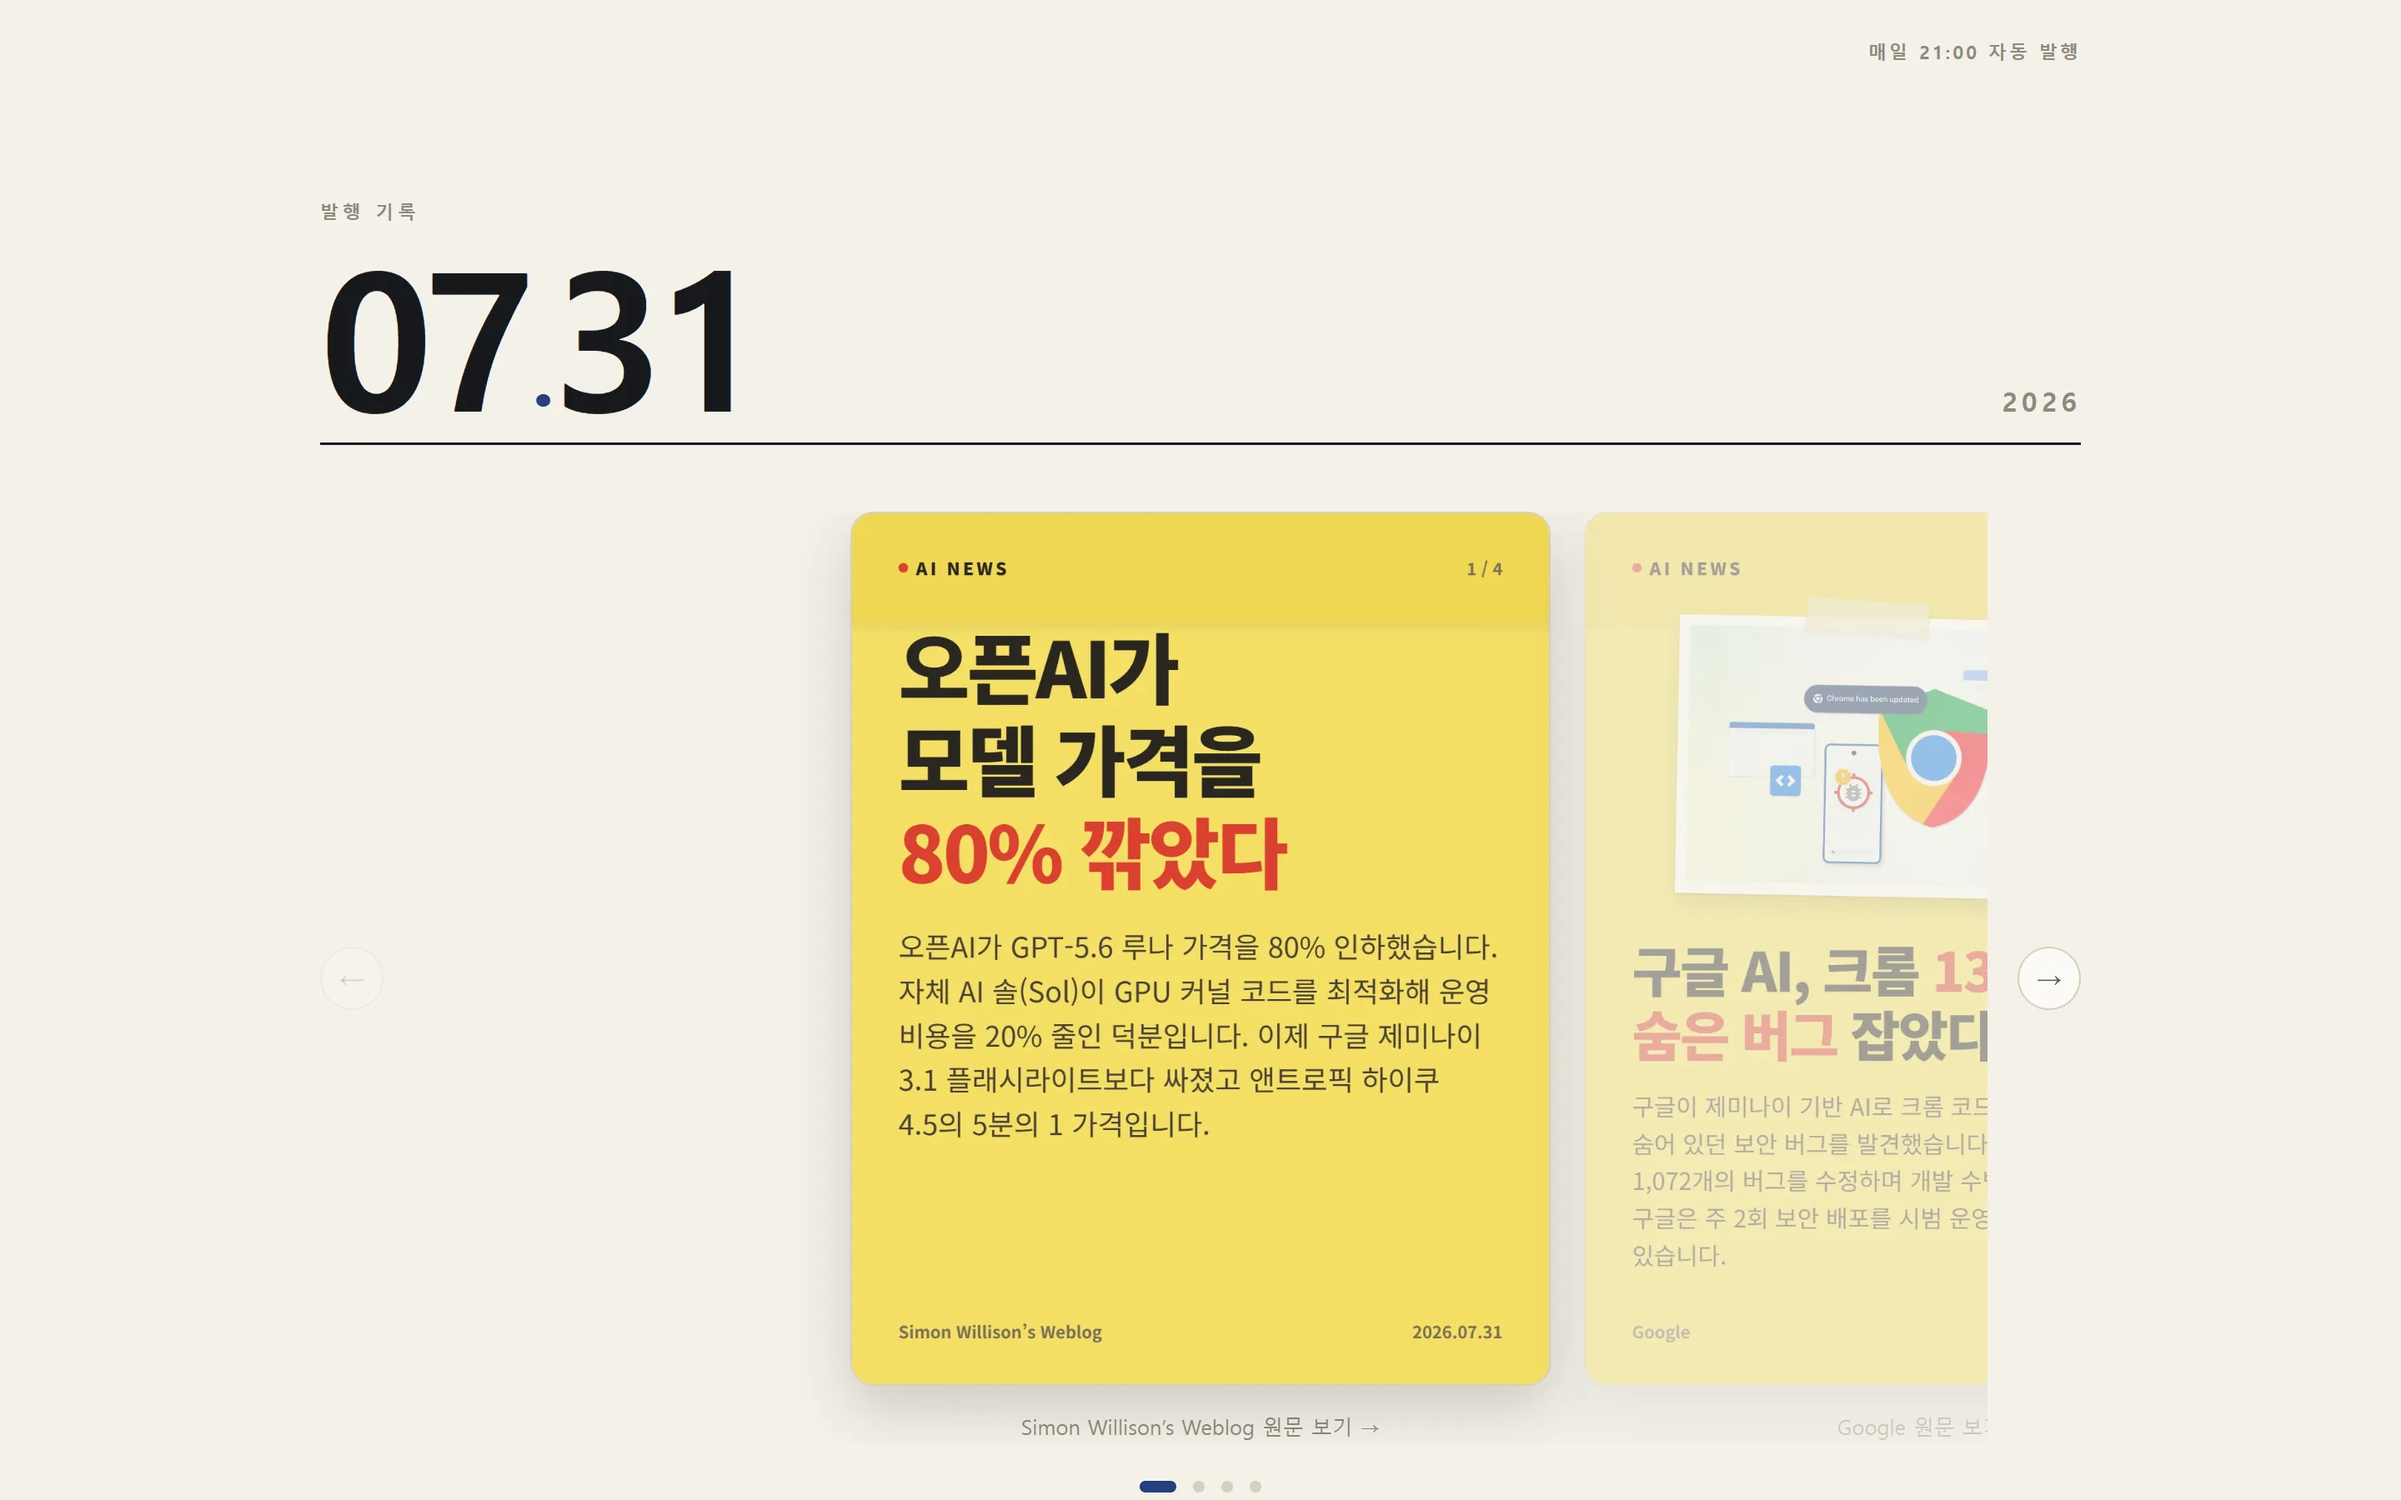
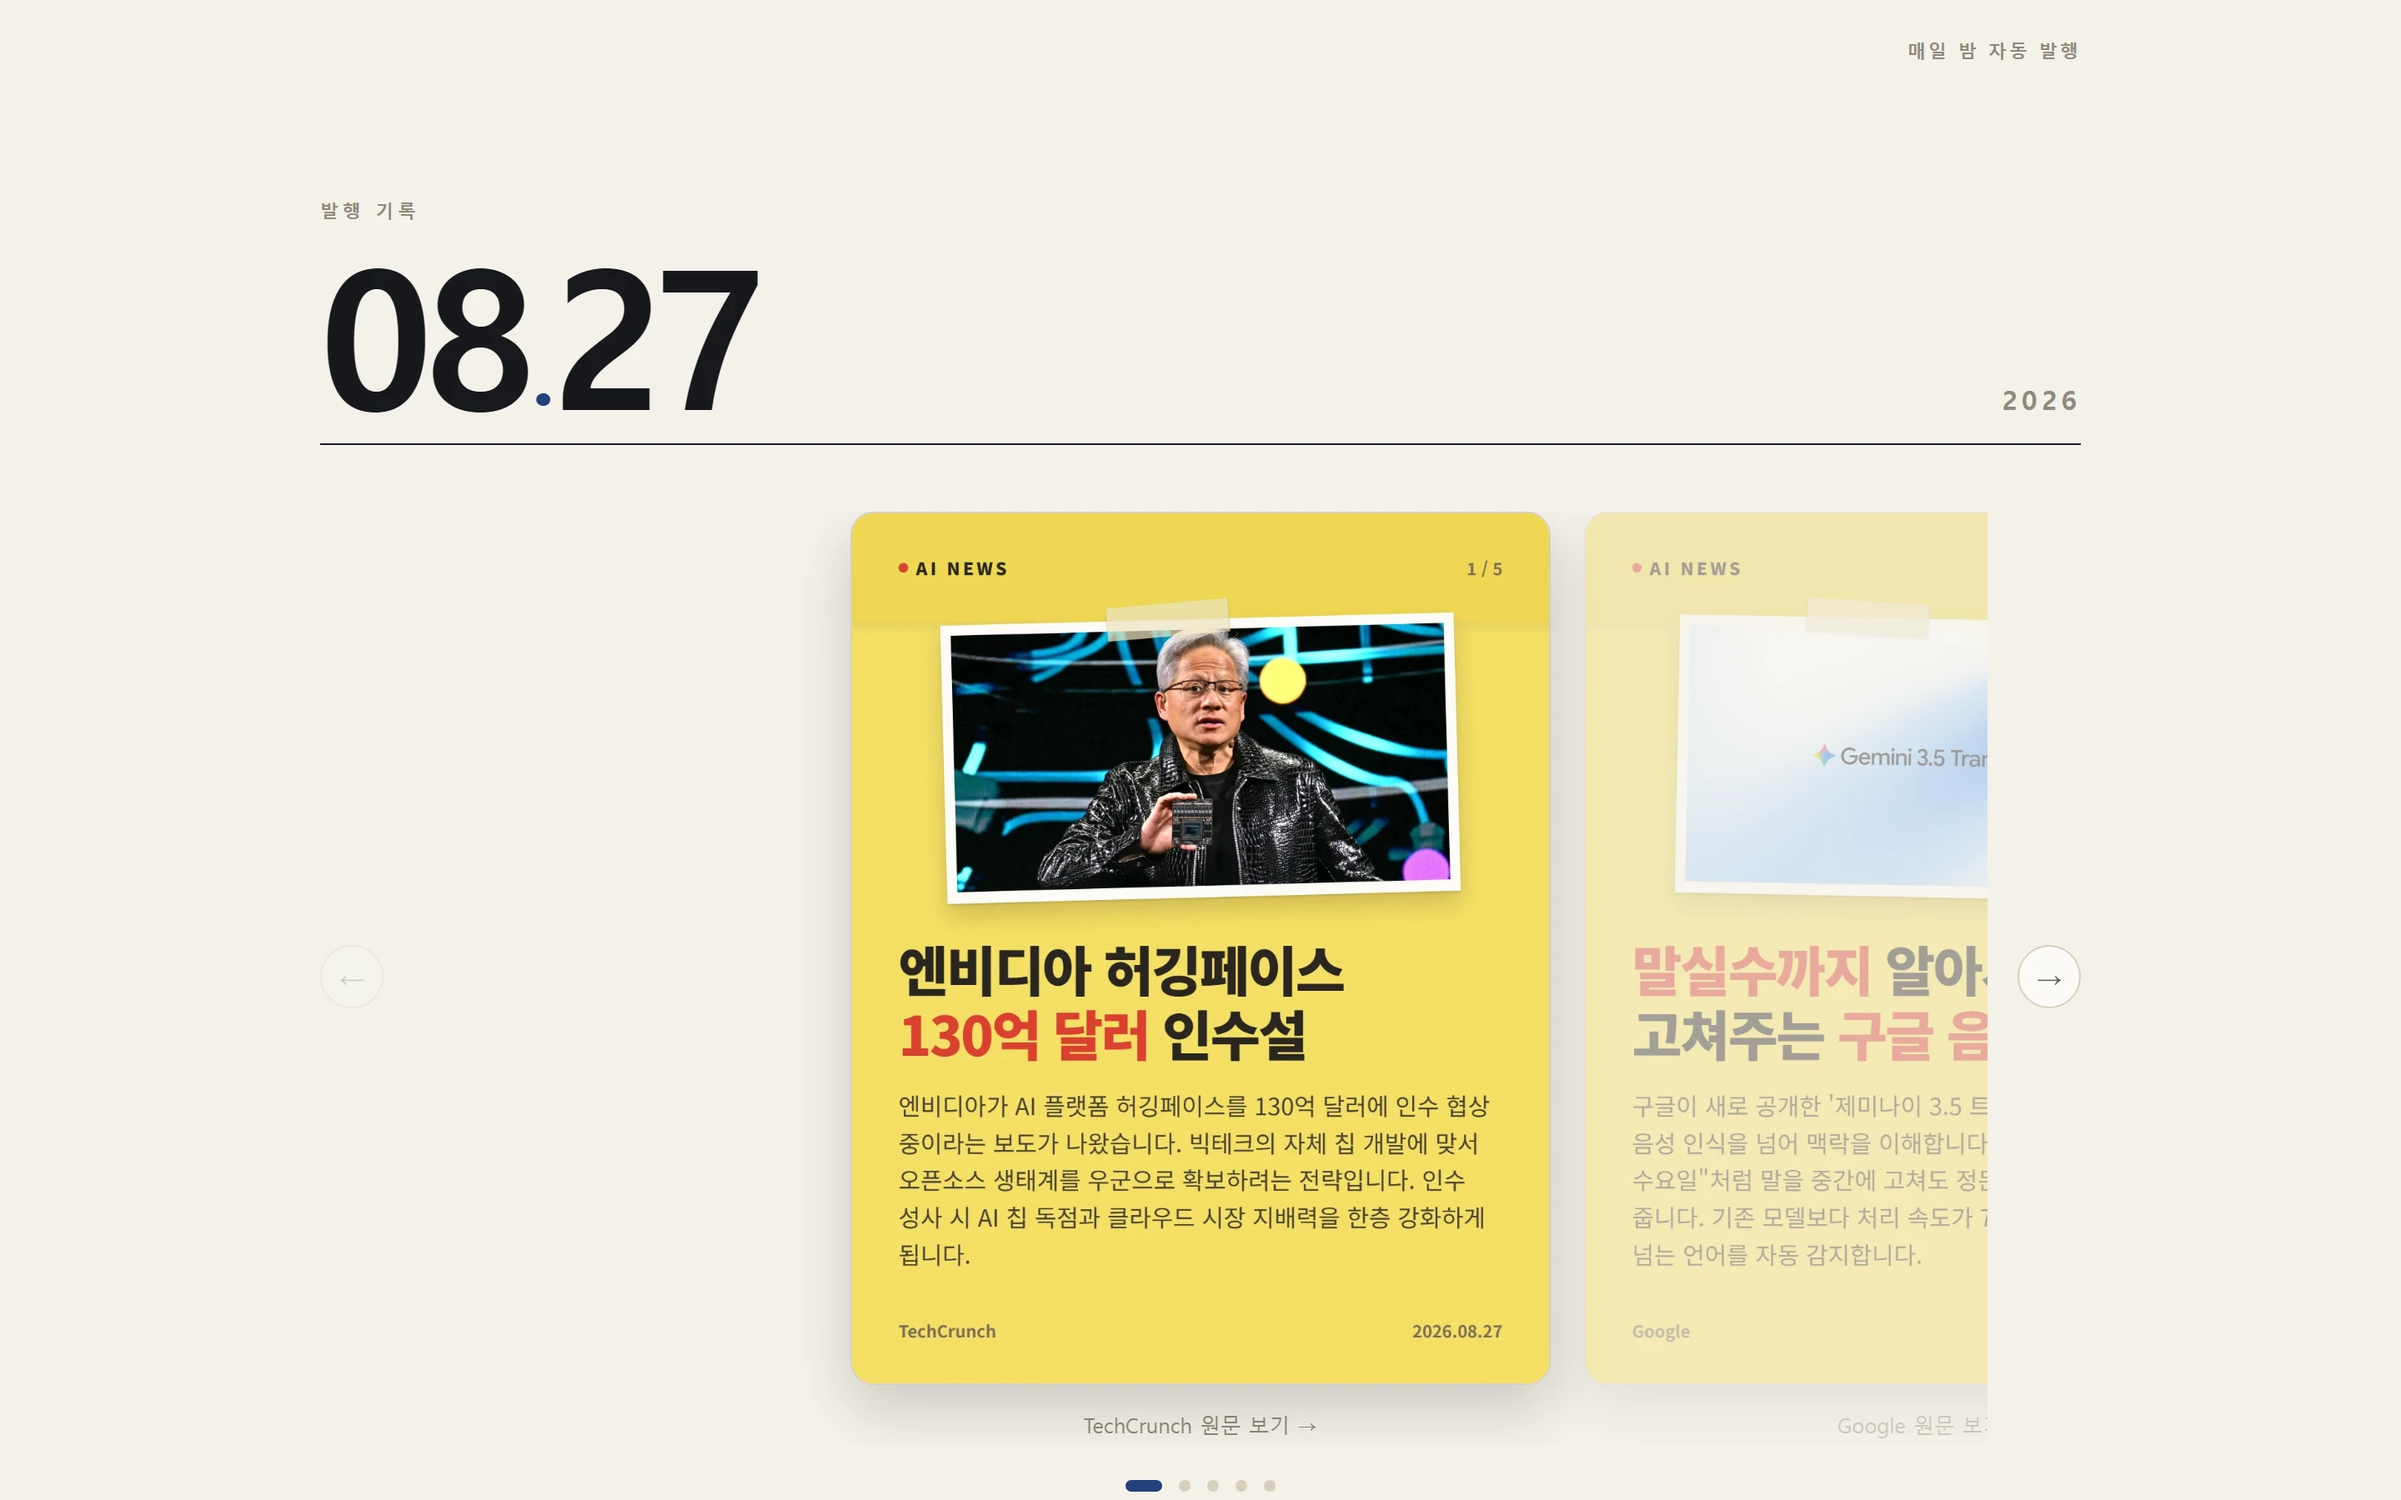
docs: README 결과물 증거 최신화
- 머리 카드 07-29 → 08-28 · 배포 사이트에서 다시 찍은 스크린샷 · 확대 뷰 자리에 아카이브 격자
- 검증 표 실측 — 테스트 133 → 156개 · 무인 완주는 스케줄 32회 중 30회(끊긴 둘의 run ID)
- 예약 지연 32일 관측 · 41분~9시간 57분 · 중앙값 1시간 11분

diff --git a/README.md b/README.md
@@ -3,20 +3,20 @@
 > 매일 밤 · 수집부터 게시까지 **사람 손이 개입하지 않는** AI 뉴스 카드 파이프라인
 
 <p>
-  <img src="content/2026-07-29/cards/01.webp" width="215" alt="발행 카드 1">
-  <img src="content/2026-07-29/cards/02.webp" width="215" alt="발행 카드 2">
-  <img src="content/2026-07-29/cards/03.webp" width="215" alt="발행 카드 3">
+  <img src="content/2026-08-28/cards/01.webp" width="215" alt="발행 카드 1">
+  <img src="content/2026-08-28/cards/02.webp" width="215" alt="발행 카드 2">
+  <img src="content/2026-08-28/cards/03.webp" width="215" alt="발행 카드 3">
 </p>
 
-<sub>2026-07-29 발행분 · 전체 아카이브 → <b><a href="https://minky5004.github.io/ai-cards-news/">사이트</a></b></sub>
+<sub>2026-08-28 발행분 · 07-26 이후 34일 전량 → <b><a href="https://minky5004.github.io/ai-cards-news/">사이트</a></b></sub>
 
 <p>
   <img src="docs/screenshots/home.webp" width="430" alt="홈 — 오늘 발행 캐러셀">
-  <img src="docs/screenshots/expand.webp" width="430" alt="확대 뷰 — 카드와 본문">
+  <img src="docs/screenshots/archive.webp" width="430" alt="아카이브 — 날짜별 카드 더미">
   <img src="docs/screenshots/mobile.webp" width="118" alt="모바일 홈">
 </p>
 
-<sub>같은 카드를 싣는 정적 사이트 · 캐러셀·확대·전환 전부 라이브러리 없이 CSS 와 스크립트로</sub>
+<sub>같은 카드를 싣는 정적 사이트 · 쌓인 날짜가 곧 아카이브 · 캐러셀·확대·전환 전부 라이브러리 없이 CSS 와 스크립트로</sub>
 
 ## 파이프라인
 
@@ -54,7 +54,7 @@
 **감수한 것**
 
 - 클러스터마다 무관 기사 1건씩 — 조이면 오염 0 이나 OpenAI·Hugging Face 3건 분산
-- 예약 지연 발화 방치(31일 관측 · 40분~9시간 57분 · 중앙값 1시간 10분) — 예약 시각 앵커 · 24시간까지 같은 날짜
+- 예약 지연 발화 방치(32일 관측 · 41분~9시간 57분 · 중앙값 1시간 11분) — 예약 시각 앵커 · 24시간까지 같은 날짜
 - 파일은 있는데 **내용이 깨진 경우**는 미탐지
 
 ## 검증
@@ -62,8 +62,8 @@
 | 무엇을 | 어떻게 |
 | --- | --- |
 | 클러스터 임계값 | 07-22 수집분 54건에 손으로 정답을 붙여 격자 탐색 |
-| 무인 종단 완주 | 4일 연속 관측 — run `30459911527` · `30550181481` · `30637611313` · `30701713207` |
-| 테스트 133개 | 코드를 일부러 깨뜨려 **실패하는지** 확인 |
+| 무인 종단 완주 | 07-28~08-28 스케줄 32회 중 30회 — 끊긴 둘은 Pages 배포 타임아웃(`31110053608`) · 기사 본문의 키 형태로 막힌 푸시(`31600410158`) |
+| 테스트 156개 | 코드를 일부러 깨뜨려 **실패하는지** 확인 |
 | 웹 | 실제 발행일로는 목록 자르기도 월 경계도 미발화 — 가짜 날짜를 깔아 발화 |
 
 - 채택값뿐 아니라 **기각한 값**(자카드 `0.3` · `0.15`)의 결과도 `config/pipeline.yaml` 주석에
